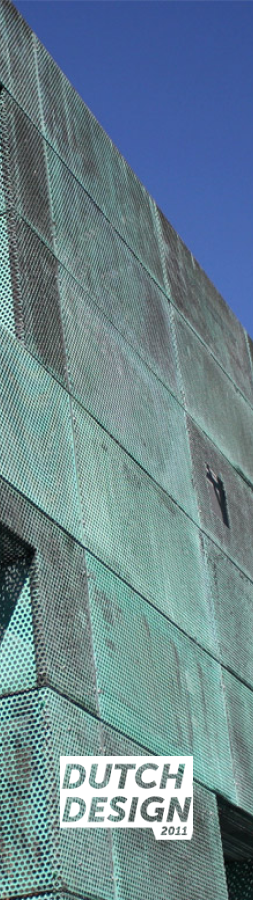
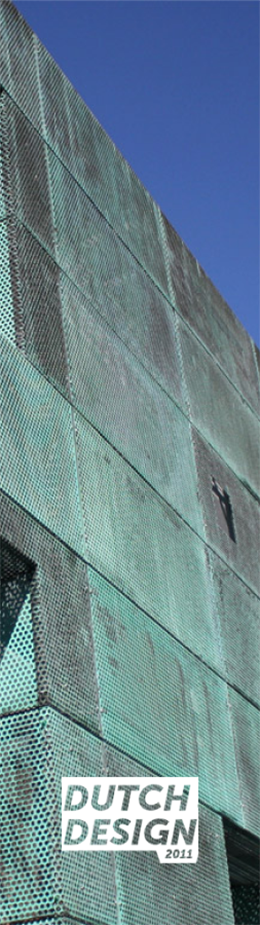
attempt to realign years on same baseline and width

diff --git a/style/main.css b/style/main.css
@@ -126,6 +126,7 @@ h1 {
 #yearsixteen {
   letter-spacing: 8px;
 }
+
 /* ------------------- archive ------------------------------------- */
 .archive-stack {
   width: 255px;
@@ -138,7 +139,7 @@ h1 {
 }
 
 .year {
-  margin-top: 90%;
+  margin-top: 100%;
 }
 
 /* .background {
